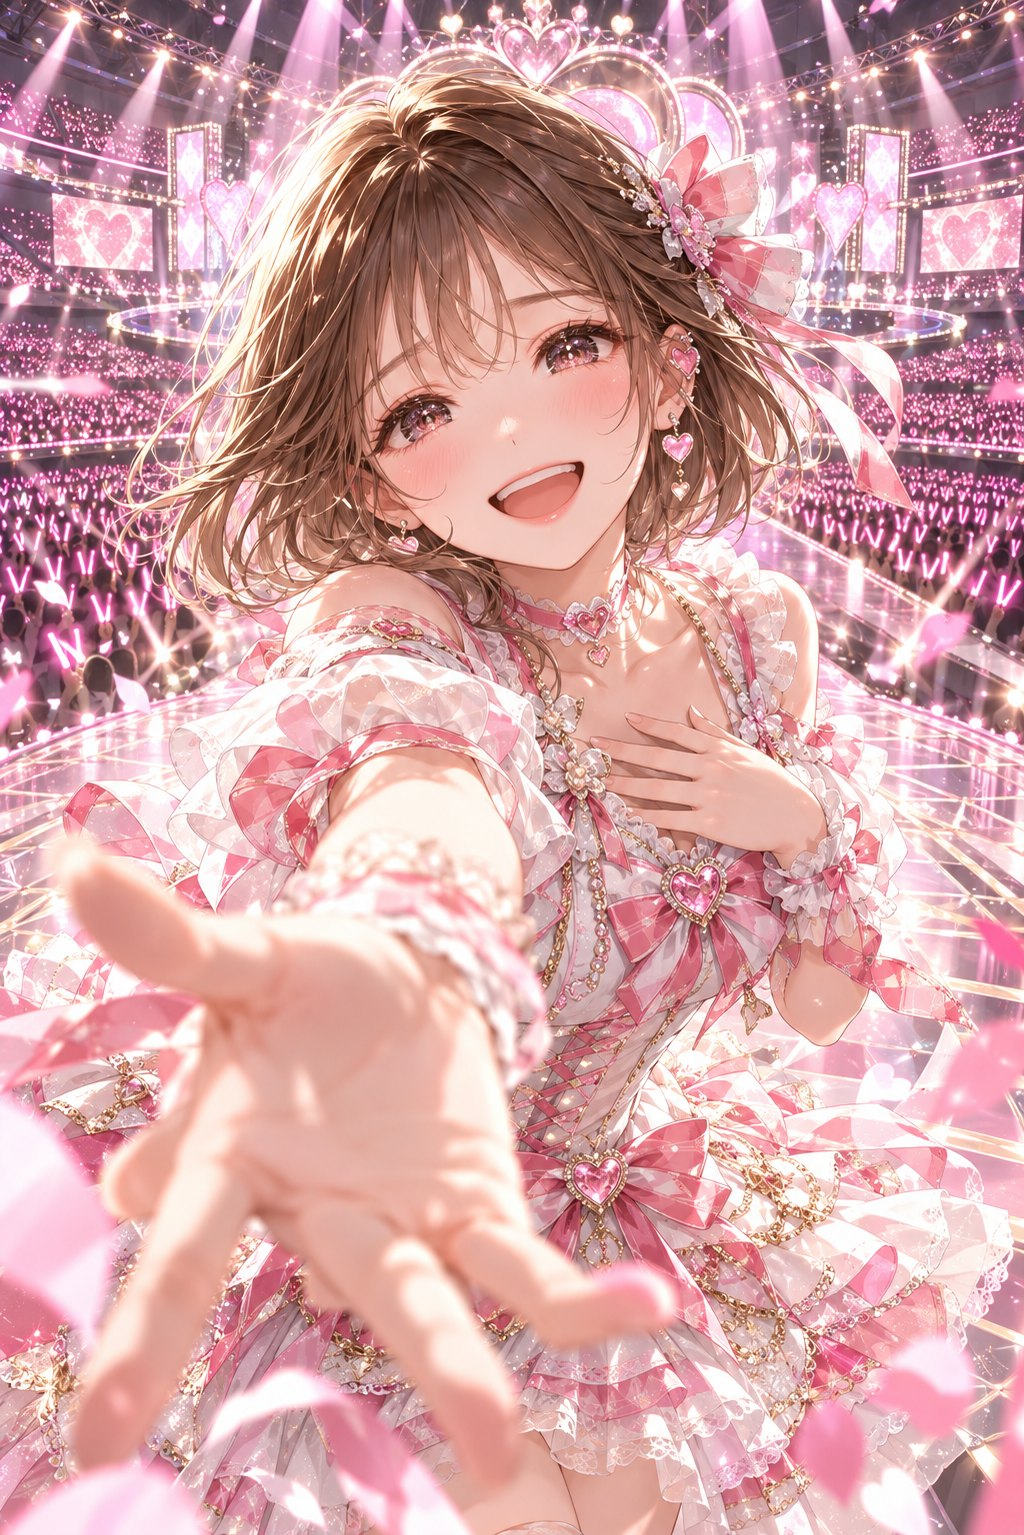
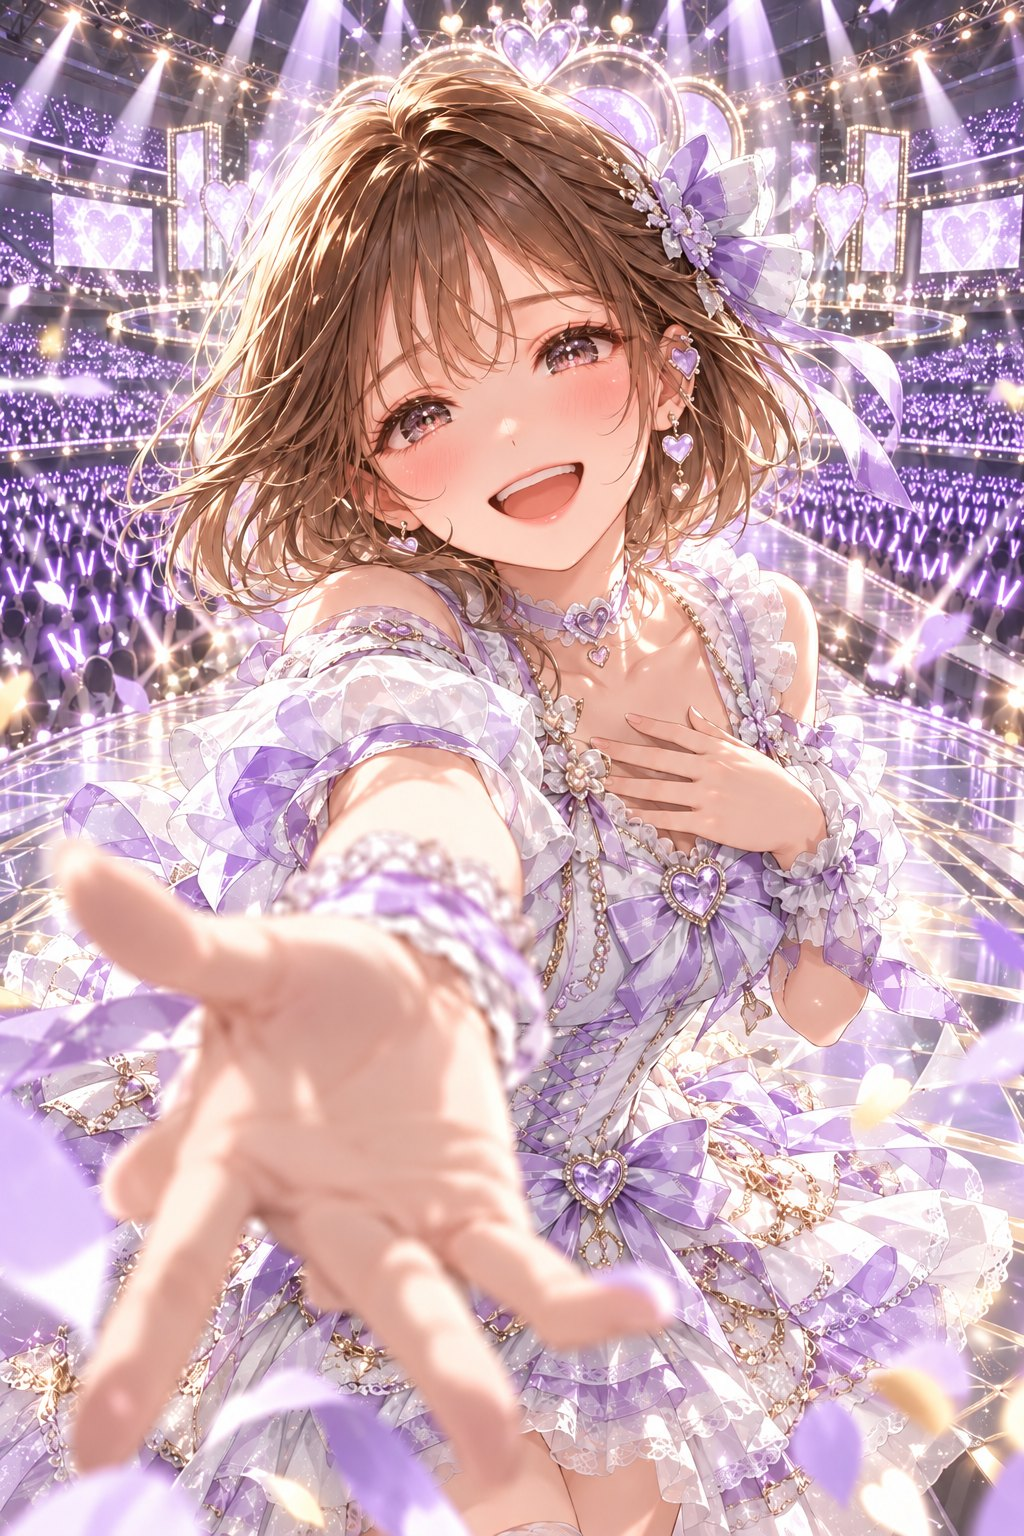
アイリ（c6）の絵をラベンダーの色違いに差し替え
- c6-art.jpg・c6-subject.webp を白とラベンダーの色違いに（カード面の色に合わせる）
- ピンクの元の絵は assets/original/c6-pink.webp に残す
- card-art-orders.md・history.md を更新

Claude-Session: https://claude.ai/code/session_01PEXRP7sjR8hQPqa9snary9

diff --git a/docs/card-art-orders.md b/docs/card-art-orders.md
@@ -1820,7 +1820,7 @@
 ```
 
 ### c6 国民的推し アイリ（色違い）
-同じ構図のまま、ピンクからラベンダーに変える（メロいの★5がピンクばかりで被るため）。新しいチャットに今の絵（`assets/original/c6.*` か `apps/web/public/assets/cards/c6-art.jpg`）を添付して：
+同じ構図のまま、ピンクからラベンダーに変える（メロいの★5がピンクばかりで被るため）。10月20日に差し替え済み：元の絵を描いた ChatGPT のチャットに続けて下の注文を送った（「添付した絵」を「直前の絵」にして送った。添付は不要だった）。ピンクの元の絵は `assets/original/c6-pink.webp` に残した。新しいチャットに今の絵（`assets/original/c6.*` か `apps/web/public/assets/cards/c6-art.jpg`）を添付して：
 ```text
 添付した絵の「色違い」を描いてください。
 同じキャラクター・同じポーズ・同じ構図・同じ画角・同じ縦長 2:3（1024×1536）。顔立ち・髪型・服の形は変えない

diff --git a/docs/history.md b/docs/history.md
@@ -314,3 +314,7 @@
 ## 10月20日：剥がし・捨て垢・工作員の絵
 
 - 絵が無かった剥がし（m20）・捨て垢（n15）・工作員（n16）を、`docs/card-art-orders.md` の注文どおり ChatGPT のプロジェクトで描いて取り込んだ（ブラウザ欄で操作）。★1〜3 なので共通デザインのまま、絵だけ入れた
+
+## 10月20日：アイリの絵をラベンダーに
+
+- アイリ（c6）の絵を、カード面に合わせてピンクから白とラベンダーの色違いに差し替えた（メロいの★5がピンクばかりで被るため。注文は第7弾）。ピンクの元の絵は `assets/original/c6-pink.webp`
